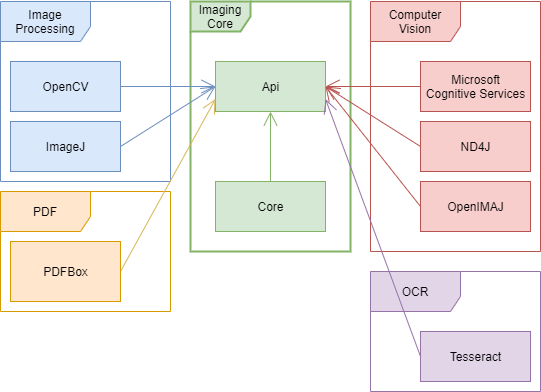
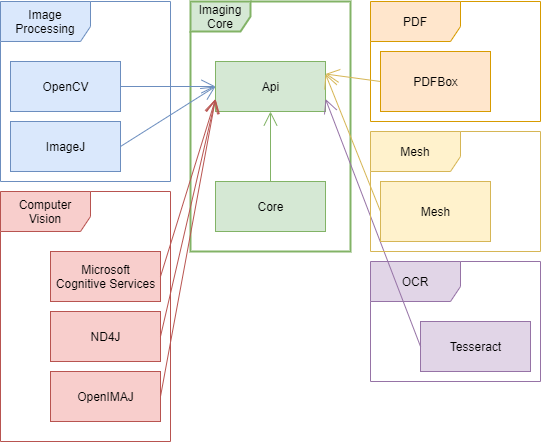
#5 Updating site documentation

diff --git a/src/site/markdown/index.md b/src/site/markdown/index.md
@@ -18,7 +18,7 @@ The functionality is separated into two main modules with sub modules, described
  * **api**: Is the base module of the imaging project containing **domain objects** for images, geometric figures (e.g. points, lines, rectangles, ...), color representations and more. Also contains some further functionality as interfaces, transformers and utility classes (e.g. for type checking of images). 
  * **core**: Core consists of basic implementations for image and geometric processing. [See here for a more detailed description...](service/service_core.md )
  * **imagej**: Connector module to [ImageJ](https://imagej.net/)
- * **mesh**: Module containing different mesh processing related things like storing to mesh related file types
+ * **mesh**: Module containing different mesh processing related things like storing to mesh related file types (.obj, .off, .ply, .stl) or triangulating points
  * **microsoftcognitiveservices**: This module wraps the functionality of Microsoft´s Cognitive Services and is currently used for face detection.
  * **nd4j**: Connector module to [ND4J](https://github.com/deeplearning4j/nd4j)
  * **opencv**: This module is the core computer vision implementation and uses the [AistCV (OpenCV Java Wrapper)](https://github.com/FHOOEAIST/aistcv) [See here for a more detailed description...](service/opencv_module.md)
